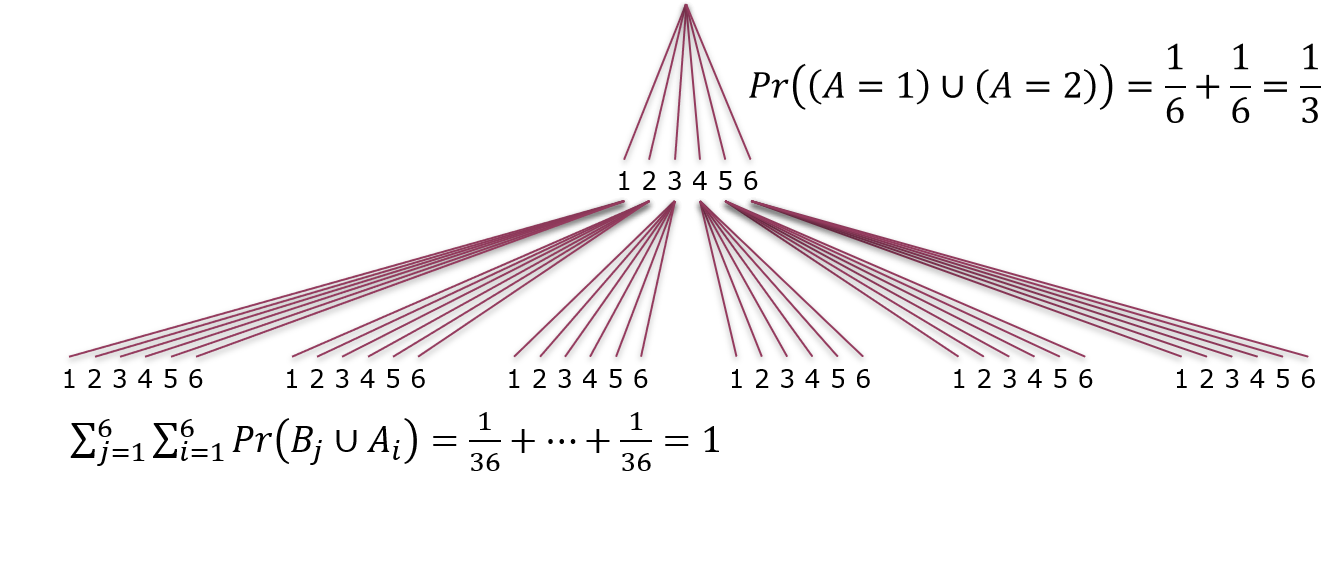
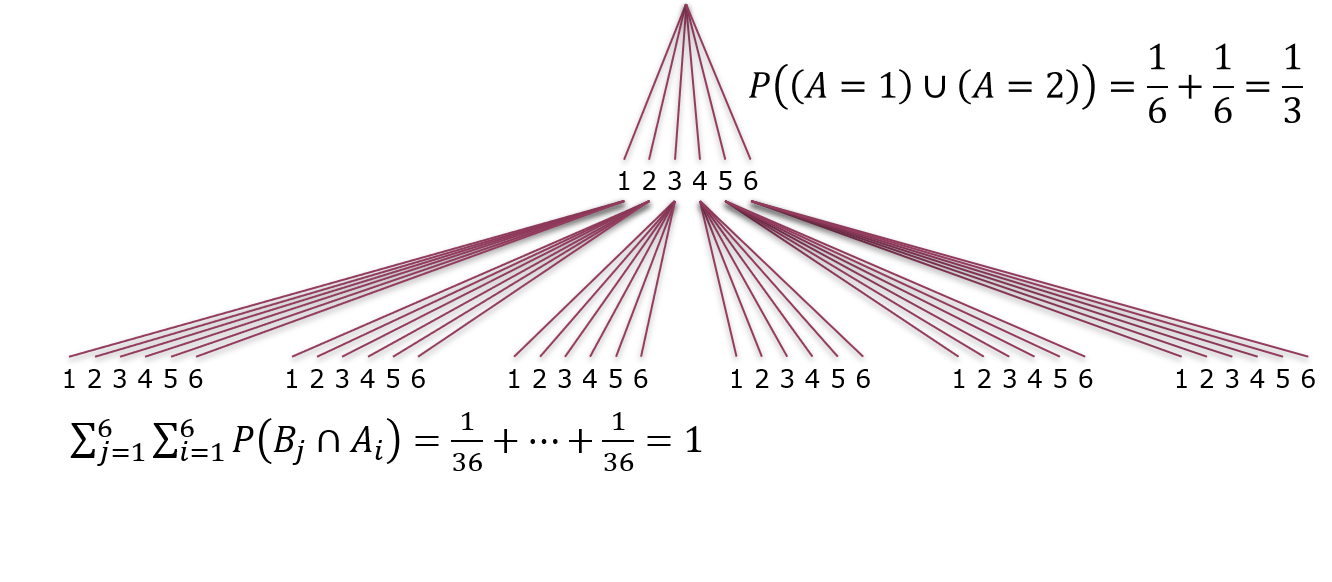
correction to chapter 6

diff --git a/docs/06-wahrscheinlichkeit.html b/docs/06-wahrscheinlichkeit.html
@@ -24,7 +24,7 @@
 <meta name="author" content="Tobias Krueger" />
 
 
-<meta name="date" content="2020-11-20" />
+<meta name="date" content="2020-12-14" />
 
   <meta name="viewport" content="width=device-width, initial-scale=1" />
   <meta name="apple-mobile-web-app-capable" content="yes" />
@@ -33,14 +33,14 @@
   
 <link rel="prev" href="05-korrelation.html"/>
 <link rel="next" href="07-verteilungen.html"/>
-<script src="libs/jquery/jquery.min.js"></script>
-<link href="libs/gitbook/css/style.css" rel="stylesheet" />
-<link href="libs/gitbook/css/plugin-table.css" rel="stylesheet" />
-<link href="libs/gitbook/css/plugin-bookdown.css" rel="stylesheet" />
-<link href="libs/gitbook/css/plugin-highlight.css" rel="stylesheet" />
-<link href="libs/gitbook/css/plugin-search.css" rel="stylesheet" />
-<link href="libs/gitbook/css/plugin-fontsettings.css" rel="stylesheet" />
-<link href="libs/gitbook/css/plugin-clipboard.css" rel="stylesheet" />
+<script src="libs/jquery-2.2.3/jquery.min.js"></script>
+<link href="libs/gitbook-2.6.7/css/style.css" rel="stylesheet" />
+<link href="libs/gitbook-2.6.7/css/plugin-table.css" rel="stylesheet" />
+<link href="libs/gitbook-2.6.7/css/plugin-bookdown.css" rel="stylesheet" />
+<link href="libs/gitbook-2.6.7/css/plugin-highlight.css" rel="stylesheet" />
+<link href="libs/gitbook-2.6.7/css/plugin-search.css" rel="stylesheet" />
+<link href="libs/gitbook-2.6.7/css/plugin-fontsettings.css" rel="stylesheet" />
+<link href="libs/gitbook-2.6.7/css/plugin-clipboard.css" rel="stylesheet" />
 
 
 
@@ -50,7 +50,7 @@
 
 
 
-<script src="libs/accessible-code-block/empty-anchor.js"></script>
+<script src="libs/accessible-code-block-0.0.1/empty-anchor.js"></script>
 
 
 <style type="text/css">
@@ -176,7 +176,7 @@ code span.wa { color: #60a0b0; font-weight: bold; font-style: italic; } /* Warni
 <div id="wahrscheinlichkeit" class="section level1">
 <h1><span class="header-section-number">Kapitel 6</span> Grundlagen der Wahrscheinlichkeitsrechnung</h1>
 <p>Die Wahrscheinlichkeitstheorie bildet die Brücke zwischen der deskriptiven und der induktiven Statistik, um bei dem Bild von <span class="citation">Zimmermann-Janschitz (<a href="#ref-zimmermann2014" role="doc-biblioref">2014</a>)</span> zu bleiben. Sie liefert Modelle in der Form von Wahrscheinlichkeitsverteilungen (s. Kapitel <a href="07-verteilungen.html#verteilungen">7</a>), die es uns erlauben von Stichproben auf Grundgesamtheiten zu schließen.</p>
-<p>Dieses Kapitel motiviert zunächst <strong>Zufallsvorgänge</strong> und definiert ein paar grundlegende Begriffe. Sodann werden <strong>Ereignisse</strong> als Ergebnis eines Zufallsvorgangs über die Mengenleere eingeführt.<a href="#fn3" class="footnote-ref" id="fnref3"><sup>3</sup></a>. Dazu gehört die Darstellung des <strong>Venn-Diagramms</strong>. Sodann werden <strong>Zufallsvariablen</strong> und <strong>Zufallsexperimente</strong> definiert, bevor wir zum Begriff der <strong>Wahrscheinlichkeit</strong> kommen. Dabei schauen wir uns besonders Konzepte wie <strong>bedingte Wahrscheinlichkeit</strong> und <strong>Unabhängigkeit von Ereignissen</strong>, sowie die Rechenregeln der Wahrscheinlichkeitsrechnung an. Im Quiz dieser Woche werden wir diese Regeln anwenden indem wir etwas mit Wahrscheinlichkeiten rechnen.</p>
+<p>Dieses Kapitel motiviert zunächst <strong>Zufallsvorgänge</strong> und definiert ein paar grundlegende Begriffe. Sodann werden <strong>Ereignisse</strong> als Ergebnis eines Zufallsvorgangs über die Mengenleere eingeführt.<a href="#fn1" class="footnote-ref" id="fnref1"><sup>1</sup></a>. Dazu gehört die Darstellung des <strong>Venn-Diagramms</strong>. Sodann werden <strong>Zufallsvariablen</strong> und <strong>Zufallsexperimente</strong> definiert, bevor wir zum Begriff der <strong>Wahrscheinlichkeit</strong> kommen. Dabei schauen wir uns besonders Konzepte wie <strong>bedingte Wahrscheinlichkeit</strong> und <strong>Unabhängigkeit von Ereignissen</strong>, sowie die Rechenregeln der Wahrscheinlichkeitsrechnung an. Im Quiz dieser Woche werden wir diese Regeln anwenden indem wir etwas mit Wahrscheinlichkeiten rechnen.</p>
 <div id="zufallsvorgänge" class="section level2">
 <h2><span class="header-section-number">6.1</span> Zufallsvorgänge</h2>
 <p>Wir alle kennen Zufallsvorgänge im Alltagsleben; z.B. Glücksspiele wie Roulette, Würfelspiele und die Ziehung der Lottozahlen. Aber auch Prozesse wie die Entwicklung von Börsenkursen, die Abschätzung von Schadensverläufen oder Lebenserwartungen (wichtig für Versicherungen) und Marktrisiken (wichtig für Unternehmen) werden als Zufallsvorgänge konzeptionalisiert und behandelt. Das sind Prozesse, die auf der Maßstabsebene, auf der wir sie betrachten gewisse Regularitäten aufweisen, die Glücksspielen ähneln und deshalb als Zufallsvorgänge betrachtet werden können. Das mag aber nur deshalb so sein weil wir die zugrunde liegenden Kausalketten nicht kennen oder nicht beschreiben können bzw. das zu aufwendig wäre. Das gleiche trifft übrigens auch auf Glücksspiele zu, deren Verlauf wir theoretisch auch physikalisch beschreiben könnten wenn wir nur alle Randbedingungen bestimmen könnten. Aus diesem Blickwinkel sind Zufallsvorgänge also immer nur grobskalige <em>Modelle</em> für Prozesse, die auf kleineren Skalen ablaufen und die wir nicht vollständig quantifizieren (können). Ob es am Ende einer Kausalkette unteilbare, “echte” Zufallsvorgänge gibt wird beispielsweise in der Physik debatiert.</p>
@@ -237,30 +237,30 @@ Abbildung 6.6: Venn-Diagramm der Differenzmenge zweier Ereignisse <span class="m
 </div>
 <div id="wahrscheinlichkeit-1" class="section level2">
 <h2><span class="header-section-number">6.4</span> Wahrscheinlichkeit</h2>
-<p>So wie wir Zufallsvorgänge und Ereignisse aus der Mengenleere kommend konzeptionalisiert haben<a href="#fn4" class="footnote-ref" id="fnref4"><sup>4</sup></a> ist die <strong>Wahrscheinlichkeit</strong> für das Eintreten eines Ereignisses <span class="math inline">\(A\)</span> - <span class="math inline">\(\Pr(A)\)</span> - als <em>Grenzwert der relativen Häufigkeit</em> für das Eintreten von <span class="math inline">\(A\)</span> definiert:<a href="#fn5" class="footnote-ref" id="fnref5"><sup>5</sup></a>
+<p>So wie wir Zufallsvorgänge und Ereignisse aus der Mengenleere kommend konzeptionalisiert haben<a href="#fn2" class="footnote-ref" id="fnref2"><sup>2</sup></a> ist die <strong>Wahrscheinlichkeit</strong> für das Eintreten eines Ereignisses <span class="math inline">\(A\)</span> - <span class="math inline">\(\Pr(A)\)</span> - als <em>Grenzwert der relativen Häufigkeit</em> für das Eintreten von <span class="math inline">\(A\)</span> definiert:<a href="#fn3" class="footnote-ref" id="fnref3"><sup>3</sup></a>
 <span class="math display" id="eq:wahrscheinlichkeit">\[\begin{equation}
 f_n(A)\xrightarrow{n\to\infty}\Pr(A)
 \tag{6.1}
 \end{equation}\]</span></p>
 <p>Veranschaulichen wir das mit dem Beispiel Münzwurf (Abbildung <a href="06-wahrscheinlichkeit.html#fig:muenze">6.7</a>): Mit zunehmender Anzahl Münzwürfe <span class="math inline">\(n\)</span> nähert sich die relative Häufigkeit <span class="math inline">\(f_n\)</span> des Ereignisses “Zahl” (ebenso “Kopf”) dem erwarteten Wert 0.5 an. Wenn <span class="math inline">\(n\)</span> (hypothetisch) gegen unendlich geht (<span class="math inline">\(n\to\infty\)</span>) dann nennen wir diesen Grenzwert Wahrscheinlichkeit.</p>
-<div class="sourceCode" id="cb38"><pre class="sourceCode r"><code class="sourceCode r"><span id="cb38-1"><a href="06-wahrscheinlichkeit.html#cb38-1"></a><span class="co"># simuliere 1000 Münzwürfe</span></span>
-<span id="cb38-2"><a href="06-wahrscheinlichkeit.html#cb38-2"></a><span class="co"># dies geschieht hier mit einem Bernoulliprozess,</span></span>
-<span id="cb38-3"><a href="06-wahrscheinlichkeit.html#cb38-3"></a><span class="co"># wobei die Wahrscheinlichkeit für Erfolg (in unserem Fall &quot;Zahl&quot;) gleich 0.5 ist</span></span>
-<span id="cb38-4"><a href="06-wahrscheinlichkeit.html#cb38-4"></a><span class="co"># der Bernoulliprozess ist der Spezialfall eines Binomialprozesses mit einem Versuch,</span></span>
-<span id="cb38-5"><a href="06-wahrscheinlichkeit.html#cb38-5"></a><span class="co"># daher der R-Befehl</span></span>
-<span id="cb38-6"><a href="06-wahrscheinlichkeit.html#cb38-6"></a><span class="co"># im Output steht 1 für &quot;Zahl&quot; und 0 für &quot;Kopf&quot;</span></span>
-<span id="cb38-7"><a href="06-wahrscheinlichkeit.html#cb38-7"></a>zahl &lt;-<span class="st"> </span><span class="kw">rbinom</span>(<span class="dv">1000</span>,<span class="dv">1</span>,<span class="fl">0.5</span>)</span>
-<span id="cb38-8"><a href="06-wahrscheinlichkeit.html#cb38-8"></a><span class="co"># berechne relative Häufigkeit für &quot;Zahl&quot; nach jedem Münzwurf</span></span>
-<span id="cb38-9"><a href="06-wahrscheinlichkeit.html#cb38-9"></a><span class="co"># das ist die Summe der bisherigen Ereignisse &quot;Zahl&quot;,</span></span>
-<span id="cb38-10"><a href="06-wahrscheinlichkeit.html#cb38-10"></a><span class="co"># geteilt durch die jeweilige Anzahl der Münzwürfe</span></span>
-<span id="cb38-11"><a href="06-wahrscheinlichkeit.html#cb38-11"></a>f =<span class="st"> </span><span class="kw">cumsum</span>(zahl) <span class="op">/</span><span class="st"> </span><span class="kw">seq</span>(<span class="dv">1</span>,<span class="dv">1000</span>,<span class="dv">1</span>)</span>
-<span id="cb38-12"><a href="06-wahrscheinlichkeit.html#cb38-12"></a><span class="co"># plot</span></span>
-<span id="cb38-13"><a href="06-wahrscheinlichkeit.html#cb38-13"></a><span class="kw">plot</span>(<span class="kw">seq</span>(<span class="dv">1</span>,<span class="dv">1000</span>,<span class="dv">1</span>), f, <span class="dt">type =</span> <span class="st">&#39;n&#39;</span>,</span>
-<span id="cb38-14"><a href="06-wahrscheinlichkeit.html#cb38-14"></a>     <span class="dt">xlim =</span> <span class="kw">c</span>(<span class="dv">0</span>,<span class="dv">1000</span>), <span class="dt">ylim =</span> <span class="kw">c</span>(<span class="dv">0</span>,<span class="dv">1</span>),</span>
-<span id="cb38-15"><a href="06-wahrscheinlichkeit.html#cb38-15"></a>     <span class="dt">xlab =</span> <span class="st">&#39;Anzahl Münzwürfe n&#39;</span>, <span class="dt">ylab =</span> <span class="st">&#39;Relative Häufigkeit f_n(Zahl)&#39;</span>)</span>
-<span id="cb38-16"><a href="06-wahrscheinlichkeit.html#cb38-16"></a><span class="kw">abline</span>(<span class="dt">h =</span> <span class="fl">0.5</span>, <span class="dt">lwd =</span> <span class="dv">3</span>, <span class="dt">col =</span> <span class="st">&quot;red&quot;</span>)</span>
-<span id="cb38-17"><a href="06-wahrscheinlichkeit.html#cb38-17"></a><span class="kw">points</span>(<span class="kw">seq</span>(<span class="dv">1</span>,<span class="dv">1000</span>,<span class="dv">1</span>), f, <span class="dt">pch =</span> <span class="dv">20</span>)</span>
-<span id="cb38-18"><a href="06-wahrscheinlichkeit.html#cb38-18"></a><span class="kw">text</span>(<span class="dv">800</span>, <span class="fl">0.6</span>, <span class="st">&#39;Grenzwert: Pr(Zahl)=0.5&#39;</span>)</span></code></pre></div>
+<div class="sourceCode" id="cb1"><pre class="sourceCode r"><code class="sourceCode r"><span id="cb1-1"><a href="06-wahrscheinlichkeit.html#cb1-1"></a><span class="co"># simuliere 1000 Münzwürfe</span></span>
+<span id="cb1-2"><a href="06-wahrscheinlichkeit.html#cb1-2"></a><span class="co"># dies geschieht hier mit einem Bernoulliprozess,</span></span>
+<span id="cb1-3"><a href="06-wahrscheinlichkeit.html#cb1-3"></a><span class="co"># wobei die Wahrscheinlichkeit für Erfolg (in unserem Fall &quot;Zahl&quot;) gleich 0.5 ist</span></span>
+<span id="cb1-4"><a href="06-wahrscheinlichkeit.html#cb1-4"></a><span class="co"># der Bernoulliprozess ist der Spezialfall eines Binomialprozesses mit einem Versuch,</span></span>
+<span id="cb1-5"><a href="06-wahrscheinlichkeit.html#cb1-5"></a><span class="co"># daher der R-Befehl</span></span>
+<span id="cb1-6"><a href="06-wahrscheinlichkeit.html#cb1-6"></a><span class="co"># im Output steht 1 für &quot;Zahl&quot; und 0 für &quot;Kopf&quot;</span></span>
+<span id="cb1-7"><a href="06-wahrscheinlichkeit.html#cb1-7"></a>zahl &lt;-<span class="st"> </span><span class="kw">rbinom</span>(<span class="dv">1000</span>,<span class="dv">1</span>,<span class="fl">0.5</span>)</span>
+<span id="cb1-8"><a href="06-wahrscheinlichkeit.html#cb1-8"></a><span class="co"># berechne relative Häufigkeit für &quot;Zahl&quot; nach jedem Münzwurf</span></span>
+<span id="cb1-9"><a href="06-wahrscheinlichkeit.html#cb1-9"></a><span class="co"># das ist die Summe der bisherigen Ereignisse &quot;Zahl&quot;,</span></span>
+<span id="cb1-10"><a href="06-wahrscheinlichkeit.html#cb1-10"></a><span class="co"># geteilt durch die jeweilige Anzahl der Münzwürfe</span></span>
+<span id="cb1-11"><a href="06-wahrscheinlichkeit.html#cb1-11"></a>f =<span class="st"> </span><span class="kw">cumsum</span>(zahl) <span class="op">/</span><span class="st"> </span><span class="kw">seq</span>(<span class="dv">1</span>,<span class="dv">1000</span>,<span class="dv">1</span>)</span>
+<span id="cb1-12"><a href="06-wahrscheinlichkeit.html#cb1-12"></a><span class="co"># plot</span></span>
+<span id="cb1-13"><a href="06-wahrscheinlichkeit.html#cb1-13"></a><span class="kw">plot</span>(<span class="kw">seq</span>(<span class="dv">1</span>,<span class="dv">1000</span>,<span class="dv">1</span>), f, <span class="dt">type =</span> <span class="st">&#39;n&#39;</span>,</span>
+<span id="cb1-14"><a href="06-wahrscheinlichkeit.html#cb1-14"></a>     <span class="dt">xlim =</span> <span class="kw">c</span>(<span class="dv">0</span>,<span class="dv">1000</span>), <span class="dt">ylim =</span> <span class="kw">c</span>(<span class="dv">0</span>,<span class="dv">1</span>),</span>
+<span id="cb1-15"><a href="06-wahrscheinlichkeit.html#cb1-15"></a>     <span class="dt">xlab =</span> <span class="st">&#39;Anzahl Münzwürfe n&#39;</span>, <span class="dt">ylab =</span> <span class="st">&#39;Relative Häufigkeit f_n(Zahl)&#39;</span>)</span>
+<span id="cb1-16"><a href="06-wahrscheinlichkeit.html#cb1-16"></a><span class="kw">abline</span>(<span class="dt">h =</span> <span class="fl">0.5</span>, <span class="dt">lwd =</span> <span class="dv">3</span>, <span class="dt">col =</span> <span class="st">&quot;red&quot;</span>)</span>
+<span id="cb1-17"><a href="06-wahrscheinlichkeit.html#cb1-17"></a><span class="kw">points</span>(<span class="kw">seq</span>(<span class="dv">1</span>,<span class="dv">1000</span>,<span class="dv">1</span>), f, <span class="dt">pch =</span> <span class="dv">20</span>)</span>
+<span id="cb1-18"><a href="06-wahrscheinlichkeit.html#cb1-18"></a><span class="kw">text</span>(<span class="dv">800</span>, <span class="fl">0.6</span>, <span class="st">&#39;Grenzwert: Pr(Zahl)=0.5&#39;</span>)</span></code></pre></div>
 <div class="figure" style="text-align: center"><span id="fig:muenze"></span>
 <img src="eids_files/figure-html/muenze-1.png" alt="Simulation von 1000 Münzwürfen und die Entwicklung der relativen Häufigkeit von &quot;Zahl&quot;. Wir sehen, dass sich die relative Häufigkeit mit zunehmender Anzahl Münzwürfe dem erwarteten Wert 0.5 annähert. Den Grenzwert der relativen Häufigkeit wenn die Anzahl der Münzwürfe gegen unendlich geht nennen wir Wahrscheinlichkeit." width="80%" />
 <p class="caption">
@@ -314,7 +314,7 @@ In Worten: Die Summe der Wahrscheinlichkeiten, dass <span class="math inline">\(
 \tag{6.4}
 \end{equation}\]</span>
 In Worten: Die Wahrscheinlichkeit, dass <span class="math inline">\(A\)</span> oder <span class="math inline">\(B\)</span> eintritt oder beide errechnet sich aus der Summe der Wahrscheinlichkeiten von <span class="math inline">\(A\)</span> und <span class="math inline">\(B\)</span> minus der Wahrscheinlichkeit, dass <span class="math inline">\(A\)</span> und <span class="math inline">\(B\)</span> beide eintreten.</p>
-Das können wir uns wiederum mit einem Venn-Diagramm klar machen (Abbildung <a href="06-wahrscheinlichkeit.html#fig:gensummenregel">6.10</a>): Im Venn-Diagramm sind die Flächengrößen proportional zu den Wahrscheinlichkeiten der entsprechenden Ereignisse. Wenn uns die Wahrscheinlichkeit interessiert, dass <span class="math inline">\(A\)</span> oder <span class="math inline">\(B\)</span> eintritt (oder beide)<a href="#fn6" class="footnote-ref" id="fnref6"><sup>6</sup></a> dann ist das die Summe der beiden Flächen im Venn-Diagramm, d.h. die Summe der Einzelwahrscheinlichkeiten <span class="math inline">\(\Pr(A)\)</span> und <span class="math inline">\(\Pr(B)\)</span>. Wenn jetzt aber die beiden Flächen überlappen dann würde man mit der vorgenannten Summe die Schnittmenge doppelt zählen. Deshalb ziehen wir die Schnittmenge, die Wahrscheinlichkeit <span class="math inline">\(\Pr(A\cap B)\)</span>, in der generalisierten Summenregel einmal ab, um die reine Vereinigungsmenge, die Wahrscheinlichkeit <span class="math inline">\(\Pr(A\cup B)\)</span>, zu erhalten.
+Das können wir uns wiederum mit einem Venn-Diagramm klar machen (Abbildung <a href="06-wahrscheinlichkeit.html#fig:gensummenregel">6.10</a>): Im Venn-Diagramm sind die Flächengrößen proportional zu den Wahrscheinlichkeiten der entsprechenden Ereignisse. Wenn uns die Wahrscheinlichkeit interessiert, dass <span class="math inline">\(A\)</span> oder <span class="math inline">\(B\)</span> eintritt (oder beide)<a href="#fn4" class="footnote-ref" id="fnref4"><sup>4</sup></a> dann ist das die Summe der beiden Flächen im Venn-Diagramm, d.h. die Summe der Einzelwahrscheinlichkeiten <span class="math inline">\(\Pr(A)\)</span> und <span class="math inline">\(\Pr(B)\)</span>. Wenn jetzt aber die beiden Flächen überlappen dann würde man mit der vorgenannten Summe die Schnittmenge doppelt zählen. Deshalb ziehen wir die Schnittmenge, die Wahrscheinlichkeit <span class="math inline">\(\Pr(A\cap B)\)</span>, in der generalisierten Summenregel einmal ab, um die reine Vereinigungsmenge, die Wahrscheinlichkeit <span class="math inline">\(\Pr(A\cup B)\)</span>, zu erhalten.
 <div class="figure" style="text-align: center"><span id="fig:gensummenregel"></span>
 <img src="figs/genSummenregel.png" alt="Venn-Diagramm der generalisierten Summenregel, wobei die Flächengrößen proportional zu den Wahrscheinlichkeiten der entsprechenden Ereignisse sind. Die Wahrscheinlichkeit, dass $A$ oder $B$ eintritt (oder beide) ist die Summe der beiden Flächen im Venn-Diagramm, d.h. die Summe der Einzelwahrscheinlichkeiten $\Pr(A)$ und $\Pr(B)$, minus der überlappenden Schnittmenge, die Wahrscheinlichkeit $\Pr(A\cap B)$, da wir diese sonst doppelt zählen würden." width="30%" />
 <p class="caption">
@@ -331,7 +331,7 @@ Abbildung 6.10: Venn-Diagramm der generalisierten Summenregel, wobei die Fläche
 \sum_{i=1}^{n}\Pr\left(A_i\right)=1
 \tag{6.6}
 \end{equation}\]</span></p>
-Ein Beispiel liefert wieder das Baumdiagramm zweier Würfelwürfe (Abbildung <a href="06-wahrscheinlichkeit.html#fig:additivitaet">6.11</a>): Die Wahrscheinlichkeit, dass wir im ersten Wurf eine 1 <em>oder</em> eine 2 würfeln ist die Summe der Einzelwahrscheinlichkeiten: <span class="math inline">\(\Pr((A=1)\cup (A=2))=\frac{1}{6}+\frac{1}{6}=\frac{1}{3}\)</span>. Die Wahrscheinlichkeit, bei zwei Würfen eine der 36 Ausprägungen zu würfeln ist logischerweise 1: <span class="math inline">\(\sum_{j=1}^{6}\sum_{i=1}^{6}\Pr(B_j\cup A_i)=\frac{1}{36}+\cdots+\frac{1}{36}=1\)</span>.
+Ein Beispiel liefert wieder das Baumdiagramm zweier Würfelwürfe (Abbildung <a href="06-wahrscheinlichkeit.html#fig:additivitaet">6.11</a>): Die Wahrscheinlichkeit, dass wir im ersten Wurf eine 1 <em>oder</em> eine 2 würfeln ist die Summe der Einzelwahrscheinlichkeiten: <span class="math inline">\(\Pr((A=1)\cup (A=2))=\frac{1}{6}+\frac{1}{6}=\frac{1}{3}\)</span>. Die Wahrscheinlichkeit, bei zwei Würfen eine der 36 Ausprägungen zu würfeln ist logischerweise 1: <span class="math inline">\(\sum_{j=1}^{6}\sum_{i=1}^{6}\Pr(B_j\cap A_i)=\frac{1}{36}+\cdots+\frac{1}{36}=1\)</span>.
 <div class="figure" style="text-align: center"><span id="fig:additivitaet"></span>
 <img src="figs/Additivitaet.png" alt="Baumdiagramm zweier Würfelwürfe. Die Wahrscheinlichkeit, dass wir im ersten Wurf eine 1 _oder_ eine 2 würfeln ist die Summe der Einzelwahrscheinlichkeiten. Die Wahrscheinlichkeit, bei zwei Würfen eine der 36 Ausprägungen zu würfeln ist logischerweise 1." width="80%" />
 <p class="caption">
@@ -352,11 +352,11 @@ Abbildung 6.11: Baumdiagramm zweier Würfelwürfe. Die Wahrscheinlichkeit, dass 
 </div>
 <div class="footnotes">
 <hr />
-<ol start="3">
-<li id="fn3"><p>Eine alternative Herleitung der Wahrscheinlichkeitstheorie ginge über Aussagenlogik. Diese sehen wir uns beispielsweise in meinem Masterkurs <em>Risk and Uncertainty in Science and Policy</em> an.<a href="06-wahrscheinlichkeit.html#fnref3" class="footnote-back">↩</a></p></li>
-<li id="fn4"><p>Zufallsvorgänge und Ereignisse aus der Mengenleere kommend zu konzeptionalisiert ist der klassische Ansatz. Alternative Herangehensweisen können Sie im Masterstudium kennenlernen.<a href="06-wahrscheinlichkeit.html#fnref4" class="footnote-back">↩</a></p></li>
-<li id="fn5"><p>Streng genommen gilt der Grenzwert der relativen Häufigkeit als Wahrscheinlichkeit nur unter Voraussetzung der beliebigen Wiederholbarkeit eines Zufallsexperiments unter konstanten Bedingungen.<a href="06-wahrscheinlichkeit.html#fnref5" class="footnote-back">↩</a></p></li>
-<li id="fn6"><p>Das logische “oder” impliziert, dass beide Ereignisse eintreten.<a href="06-wahrscheinlichkeit.html#fnref6" class="footnote-back">↩</a></p></li>
+<ol start="1">
+<li id="fn1"><p>Eine alternative Herleitung der Wahrscheinlichkeitstheorie ginge über Aussagenlogik. Diese sehen wir uns beispielsweise in meinem Masterkurs <em>Risk and Uncertainty in Science and Policy</em> an.<a href="06-wahrscheinlichkeit.html#fnref1" class="footnote-back">↩</a></p></li>
+<li id="fn2"><p>Zufallsvorgänge und Ereignisse aus der Mengenleere kommend zu konzeptionalisiert ist der klassische Ansatz. Alternative Herangehensweisen können Sie im Masterstudium kennenlernen.<a href="06-wahrscheinlichkeit.html#fnref2" class="footnote-back">↩</a></p></li>
+<li id="fn3"><p>Streng genommen gilt der Grenzwert der relativen Häufigkeit als Wahrscheinlichkeit nur unter Voraussetzung der beliebigen Wiederholbarkeit eines Zufallsexperiments unter konstanten Bedingungen.<a href="06-wahrscheinlichkeit.html#fnref3" class="footnote-back">↩</a></p></li>
+<li id="fn4"><p>Das logische “oder” impliziert, dass beide Ereignisse eintreten.<a href="06-wahrscheinlichkeit.html#fnref4" class="footnote-back">↩</a></p></li>
 </ol>
 </div>
             </section>
@@ -368,15 +368,15 @@ Abbildung 6.11: Baumdiagramm zweier Würfelwürfe. Die Wahrscheinlichkeit, dass 
 <a href="07-verteilungen.html" class="navigation navigation-next " aria-label="Next page"><i class="fa fa-angle-right"></i></a>
     </div>
   </div>
-<script src="libs/gitbook/js/app.min.js"></script>
-<script src="libs/gitbook/js/lunr.js"></script>
-<script src="libs/gitbook/js/clipboard.min.js"></script>
-<script src="libs/gitbook/js/plugin-search.js"></script>
-<script src="libs/gitbook/js/plugin-sharing.js"></script>
-<script src="libs/gitbook/js/plugin-fontsettings.js"></script>
-<script src="libs/gitbook/js/plugin-bookdown.js"></script>
-<script src="libs/gitbook/js/jquery.highlight.js"></script>
-<script src="libs/gitbook/js/plugin-clipboard.js"></script>
+<script src="libs/gitbook-2.6.7/js/app.min.js"></script>
+<script src="libs/gitbook-2.6.7/js/lunr.js"></script>
+<script src="libs/gitbook-2.6.7/js/clipboard.min.js"></script>
+<script src="libs/gitbook-2.6.7/js/plugin-search.js"></script>
+<script src="libs/gitbook-2.6.7/js/plugin-sharing.js"></script>
+<script src="libs/gitbook-2.6.7/js/plugin-fontsettings.js"></script>
+<script src="libs/gitbook-2.6.7/js/plugin-bookdown.js"></script>
+<script src="libs/gitbook-2.6.7/js/jquery.highlight.js"></script>
+<script src="libs/gitbook-2.6.7/js/plugin-clipboard.js"></script>
 <script>
 gitbook.require(["gitbook"], function(gitbook) {
 gitbook.start({
